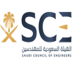
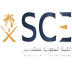
release-4 relate #12

diff --git a/css/ar.css b/css/ar.css
@@ -782,22 +782,23 @@ body {
   margin-bottom: 75px;
   padding-top: 75px;
 }
-  .swiper-slide{
-    position: relative;
-    width: 150px;
-    height: 100px;
-    display: flex;
-    justify-content: center;
-    align-items: center;
-  }
-  .swiper-slide::before{
-    content: "";
-    position: absolute;
-    z-index: -9999;
-    width: 150px;
-    height: 100px;
-    background-color: white;
-  }
+.swiper-slide{
+  position: relative;
+  width: 150px;
+  height: 100px;
+  display: flex;
+  justify-content: center;
+  align-items: center;
+}
+.swiper-slide::before{
+  content: "";
+  position: absolute;
+  z-index: -9999;
+  width: 150px;
+  height: 100px;
+  border: 1px solid white;
+  border-radius: 8px;
+}
 .swiper-pagination-bullet-active{
     background-color: #E78E2A;
     border: 1px solid white;
@@ -835,10 +836,10 @@ body {
   .logo-expertise::before{
     content: "";
     position: absolute;
-    /* z-index: -9999; */
     width: 100%;
     height: 100px;
-    background-color: white;
+    border: 1px solid white;
+    border-radius: 8px;
   }
   @media (min-width:768px) {
 .opinions-slide,.opinions-slide-container{

diff --git a/ar/index-ar.html b/ar/index-ar.html
@@ -333,11 +333,11 @@
         </div>
 
         <div class="swiper-slide">
-          <img src="../images/slider-images/img-12.jpg" alt="">
+          <img src="../images/slider-images/img-12.png" alt="">
         </div>
 
         <div class="swiper-slide">
-          <img src="../images/slider-images/img-13.jpg" alt="">
+          <img src="../images/slider-images/img-13.png" alt="">
         </div>
 
         <div class="swiper-slide">
@@ -420,11 +420,11 @@
       </div>
   
       <div class="logo-expertise">
-        <img src="../images/slider-images/img-12.jpg" alt="">
+        <img src="../images/slider-images/img-12.png" alt="">
       </div>
   
       <div class="logo-expertise">
-        <img src="../images/slider-images/img-13.jpg" alt="">
+        <img src="../images/slider-images/img-13.png" alt="">
       </div>
   
       <div class="logo-expertise">

diff --git a/index.html b/index.html
@@ -334,11 +334,11 @@
         </div>
 
         <div class="swiper-slide">
-          <img src="images/slider-images/img-12.jpg" alt="">
+          <img src="images/slider-images/img-12.png" alt="">
         </div>
 
         <div class="swiper-slide">
-          <img src="images/slider-images/img-13.jpg" alt="">
+          <img src="images/slider-images/img-13.png" alt="">
         </div>
 
         <div class="swiper-slide">
@@ -422,11 +422,11 @@
     </div>
 
     <div class="logo-expertise">
-      <img src="images/slider-images/img-12.jpg" alt="">
+      <img src="images/slider-images/img-12.png" alt="">
     </div>
 
     <div class="logo-expertise">
-      <img src="images/slider-images/img-13.jpg" alt="">
+      <img src="images/slider-images/img-13.png" alt="">
     </div>
 
     <div class="logo-expertise">

diff --git a/css/style.css b/css/style.css
@@ -811,7 +811,8 @@ body {
     z-index: -9999;
     width: 150px;
     height: 100px;
-    background-color: white;
+    border: 1px solid white;
+    border-radius: 8px;
   }
 .swiper-pagination-bullet-active{
     background-color: #E78E2A;
@@ -853,7 +854,8 @@ body {
     /* z-index: -9999; */
     width: 100%;
     height: 100px;
-    background-color: white;
+    border: 1px solid white;
+    border-radius: 8px;
   }
   @media (min-width:768px) {
 .opinions-slide,.opinions-slide-container{
